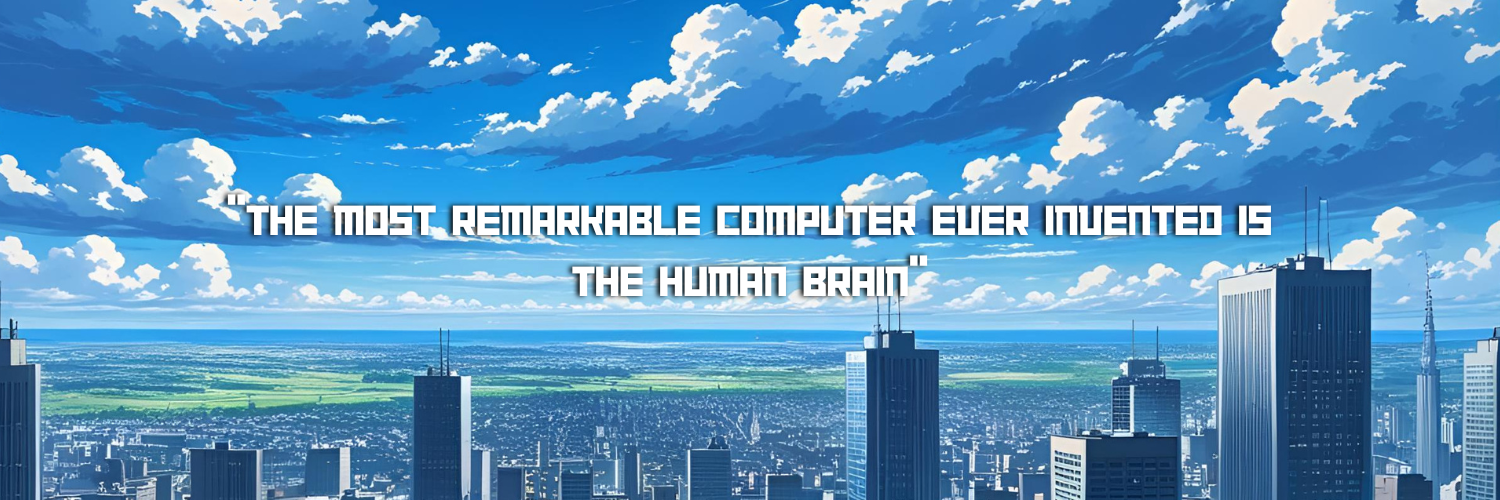
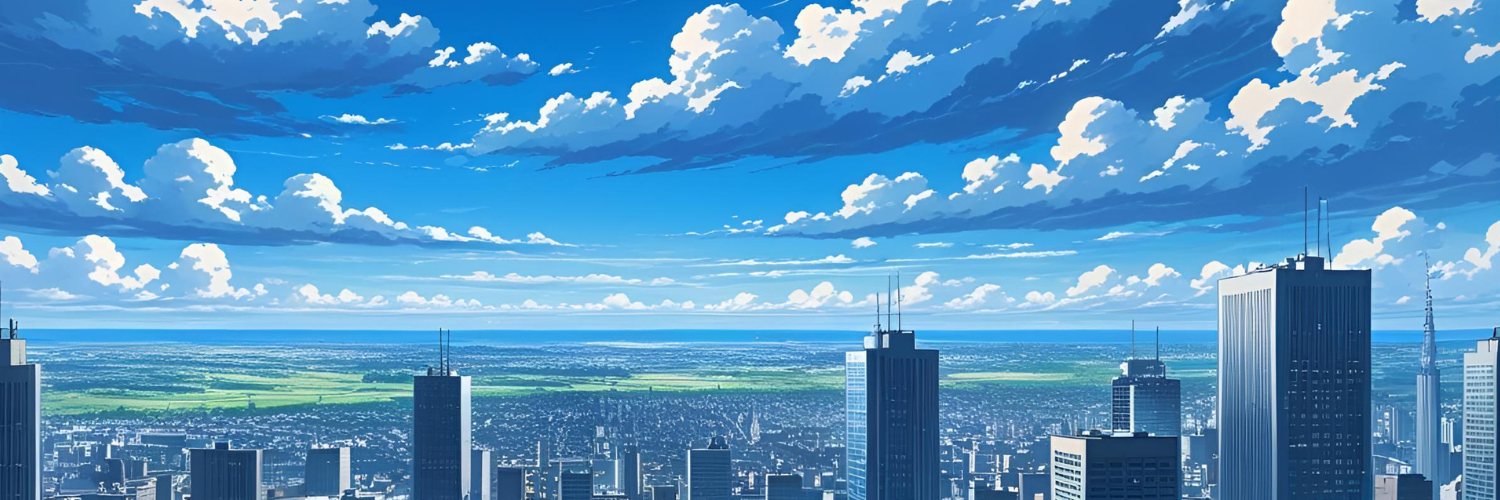
chore: replaced image text with actual text from code for responsiveness

Changed region(s): [[0.1227, 0.39, 0.8587, 0.48], [0.368, 0.51, 0.644, 0.6]]

diff --git a/app/projects/page.tsx b/app/projects/page.tsx
@@ -35,6 +35,10 @@ export default function Projects() {
               className="object-cover"
               priority
             />
+            <div className="inset-0 top-2 sm:top-0 absolute flex flex-col md:gap-2 text-center justify-center items-center font-aubette text-white text-xl sm:text-2xl md:text-3xl [text-shadow:0_2px_8px_rgba(0,0,0,0.8)]">
+              <span>“THE MOST REMARKABLE COMPUTER EVER INVENTED</span>
+              <span>IS THE HUMAN BRAIN“</span>
+            </div>
           </div>
 
           {/* PFP */}
@@ -55,7 +59,7 @@ export default function Projects() {
           </Link>
         </div>
         <div className="border-b border-border-default mb-10 flex flex-col items-center gap-2 md:gap-4 w-full h-fit px-6">
-          <h1 className="flex flex-col justify-center items-center gap-2 md:gap-4 text-text-primary font-bold text-3xl">
+          <h1 className="flex flex-col justify-center items-center gap-2 text-text-primary font-bold text-3xl">
             <span>
               Hey <span className="animate-wave">👋</span>,
             </span>
@@ -96,7 +100,7 @@ export default function Projects() {
             </div>
           </div>
           {/* Filter Tabs */}
-          <div className="flex w-full max-w-lg justify-between items-center gap-2 mt-8 flex-wrap">
+          <div className="flex w-full max-w-lg justify-between items-center gap-2 mt-6 flex-wrap">
             {TABS.map((tab) => (
               <button
                 key={tab}

diff --git a/app/globals.css b/app/globals.css
@@ -6,6 +6,13 @@
 /* Allows dark mode utilities */
 @custom-variant dark (&:where(.dark, .dark *));
 
+@font-face {
+  font-family: "Aubette";
+  src: url("/fonts/Aubette-Archi-Type-Normal.woff2") format("woff2");
+  font-weight: 400;
+  font-style: normal;
+}
+
 /* Light mode variables */
 @theme {
   /* Backgrounds */
@@ -32,6 +39,7 @@
   /* Typography */
   --font-sans: "Inter", -apple-system, BlinkMacSystemFont, sans-serif;
   --font-cinzel: "Cinzel", serif;
+  --font-aubette: "Aubette", sans-serif;
 }
 
 /* Dark mode overrides */

diff --git a/components/layout/navbar/Navbar.tsx b/components/layout/navbar/Navbar.tsx
@@ -19,7 +19,7 @@ const Navbar = () => {
         animate={{ opacity: 1, y: 0 }}
         transition={{ duration: 0.5, delay: 0.2 }}
       >
-        <div className="flex justify-between w-full sm:w-fit px-3 md:px-5 py-2 gap-10 sm:gap-4 items-center sm:justify-center">
+        <div className="flex justify-between w-full sm:w-fit px-2 md:px-5 py-1 md:py-2 gap-10 sm:gap-4 items-center sm:justify-center">
           <ThoughtAvatar logo={logo} />
           
 
